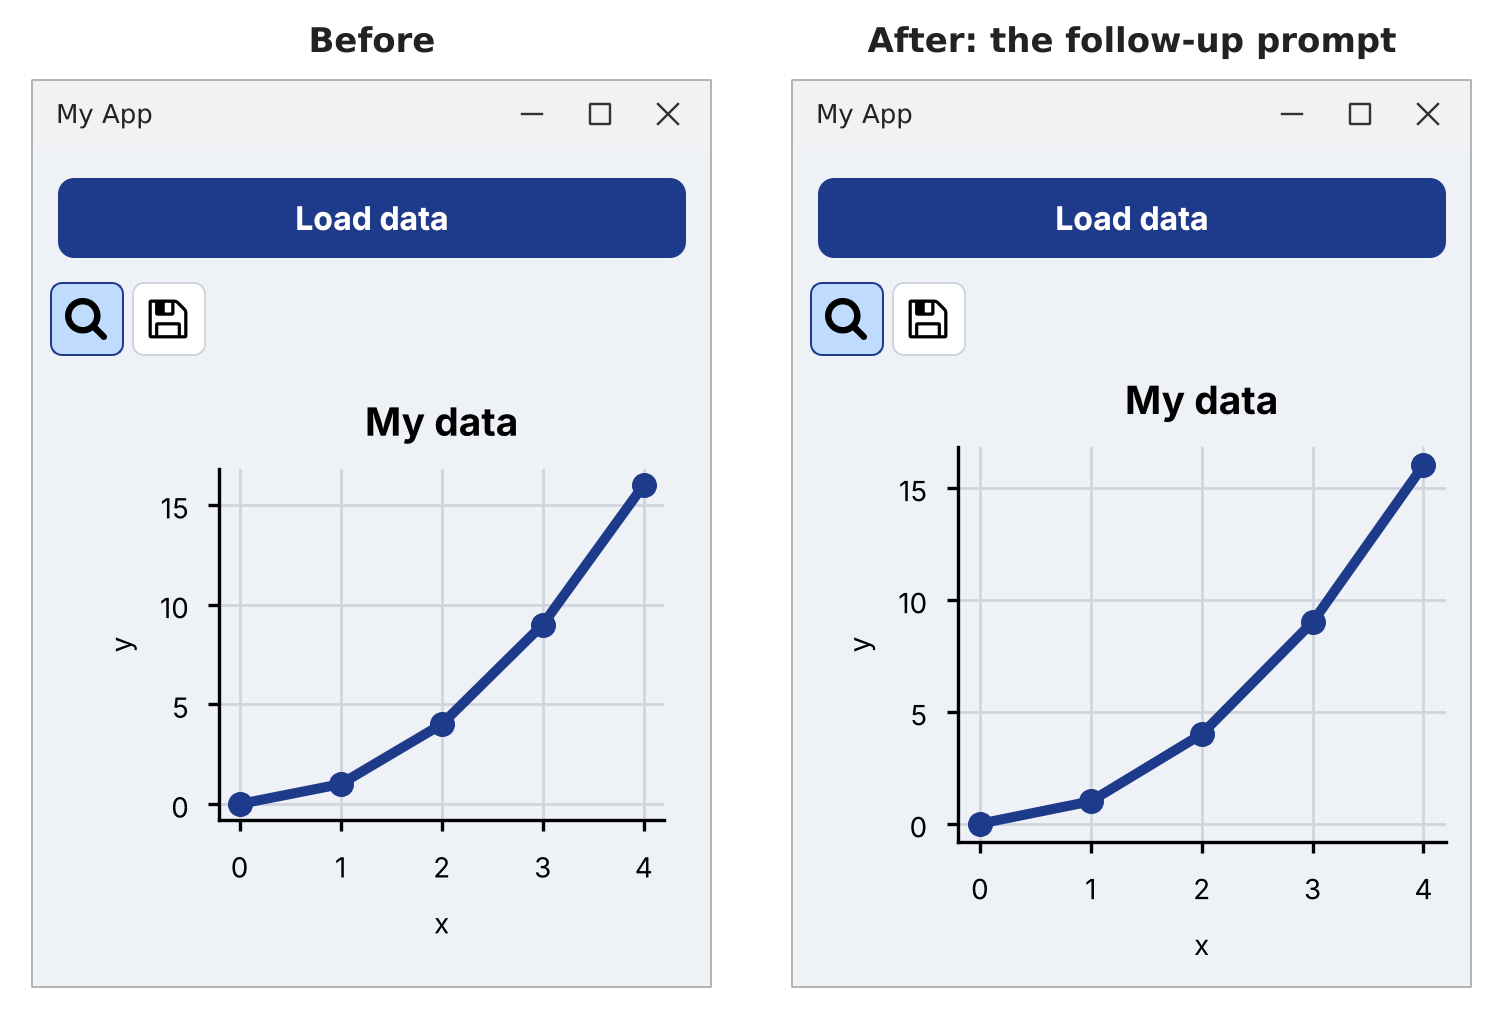
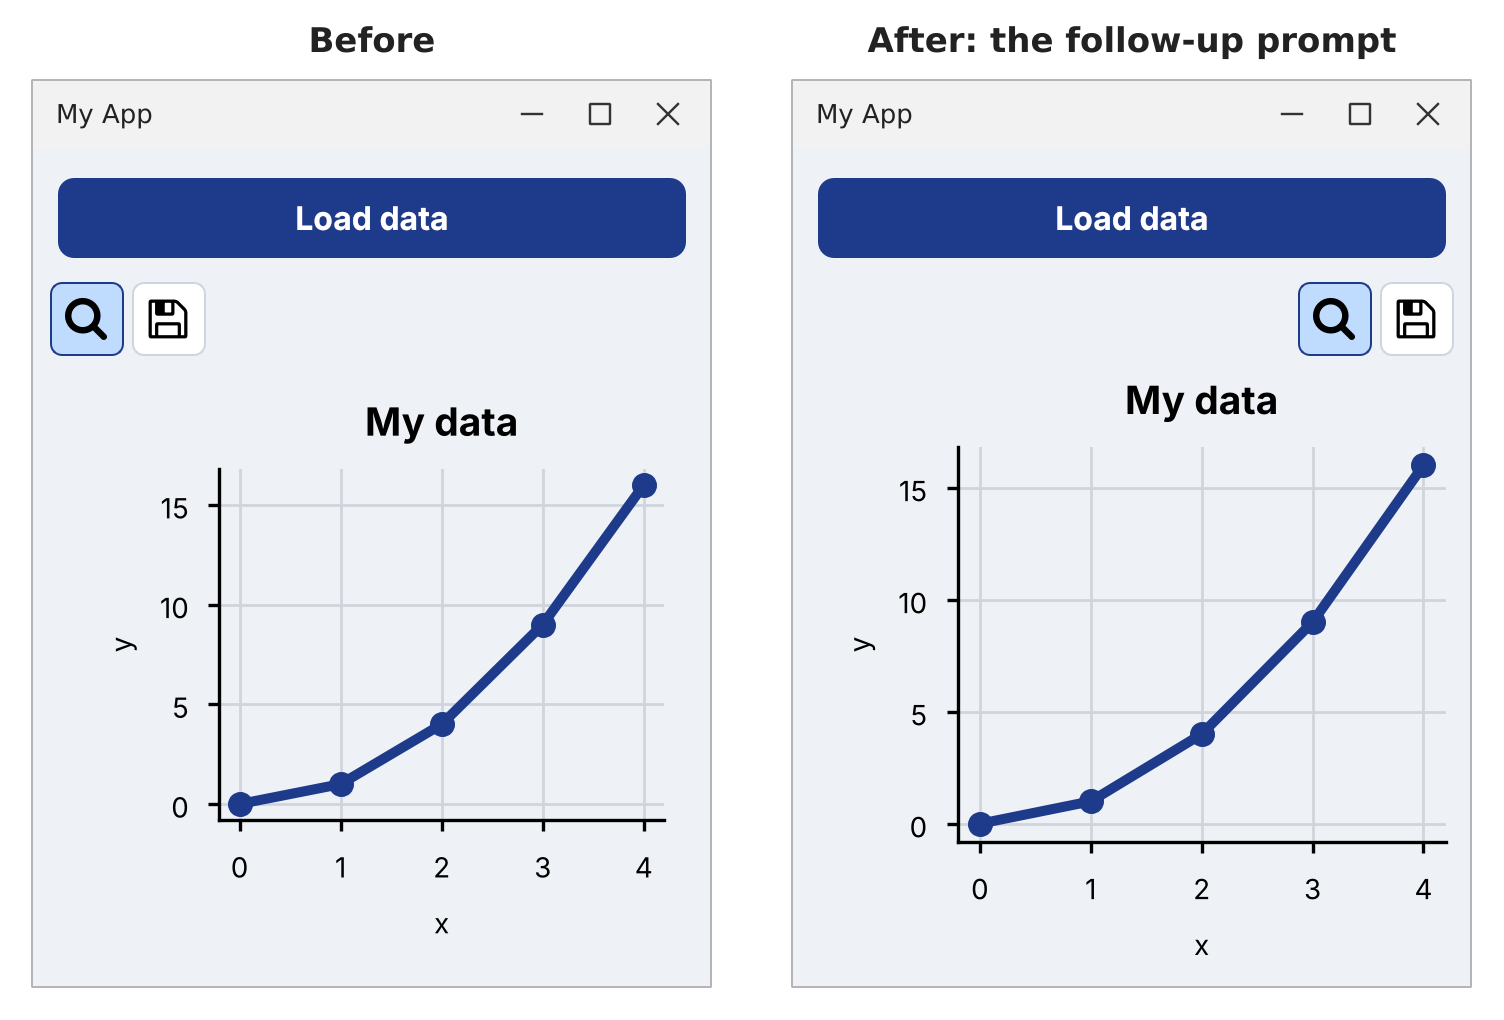
Starter GUI prompts: follow-up prompt also moves the zoom and save buttons to the right (EN + HE)
Claude-Session: https://claude.ai/code/session_01TSvAdkHwYUK1dFMohWex9P

Changed region(s): [[0.8438, 0.2735, 0.9688, 0.3647], [0.5312, 0.2735, 0.6562, 0.3647]]

diff --git a/content/he/topics/good_prompts.md b/content/he/topics/good_prompts.md
@@ -292,18 +292,26 @@ class GraphToolbar(NavigationToolbar2QT):
 
 ### פרומפט המשך: לתקן את מה שלא מוצא חן
 
-הסתכלו על התוצאה בעין ביקורתית. אחרי שהוספנו את סרגל הכלים, יש לגרף יותר מדי מקום ריק משמאל ומעליו. לא צריך להתחיל מההתחלה, ולא צריך לדעת את המילים הנכונות. פשוט תגידו מה מפריע לכם:
+הסתכלו על התוצאה בעין ביקורתית. אחרי שהוספנו את סרגל הכלים, יש לגרף יותר מדי מקום ריק משמאל ומעליו, והכפתורים ייראו טוב יותר בצד ימין. לא צריך להתחיל מההתחלה, ולא צריך לדעת את המילים הנכונות. פשוט תגידו מה מפריע לכם:
 
-> There is too much empty space between the graph and the left side of the window, and a bit too much above the title. Make the graph fill more of its area. Only change `draw_graph`.
+> There is too much empty space between the graph and the left side of the window, and a bit too much above the title. Make the graph fill more of its area. Also, move the zoom and save buttons to the right side, aligned to the right.
 
-(״יש יותר מדי מקום ריק בין הגרף לצד השמאלי של החלון, וקצת יותר מדי מעל הכותרת. תגרום לגרף למלא יותר מהשטח שלו. תשנה רק את `draw_graph`.״)
+(״יש יותר מדי מקום ריק בין הגרף לצד השמאלי של החלון, וקצת יותר מדי מעל הכותרת. תגרום לגרף למלא יותר מהשטח שלו. בנוסף, תעביר את כפתורי הזום והשמירה לצד הימני, מיושרים לימין.״)
 
 ![האפליקציה לפני פרומפט ההמשך, ואחריו](content/images/prompt_fix_before_after_he.png)
 
-ה-AI הוסיף שורה אחת:
+ה-AI הוסיף שורה אחת ל-`draw_graph`, ושינה את השורה ב-`__init__` שמכניסה את סרגל הכלים ל-layout:
 
 ```python
         self.figure.tight_layout(pad=0.3)    # in draw_graph, just before self.canvas.draw()
+```
+
+```python
+from PySide6.QtCore import Qt
+```
+
+```python
+        layout.addWidget(self.toolbar, alignment=Qt.AlignRight)    # in __init__, instead of layout.addWidget(self.toolbar)
 ```
 
 `pad` הוא המרווח מסביב לגרף. נסו בעצמכם ערכים אחרים וראו מה נראה לכם הכי טוב.

diff --git a/content/topics/good_prompts.md b/content/topics/good_prompts.md
@@ -266,16 +266,24 @@ matplotlib's toolbar has more buttons: Home (back to the full view), Back, Forwa
 
 ### A follow-up prompt: fix what you don't like
 
-Look at the result with a critical eye. After the toolbar was added, the graph has too much empty space on its left and above it. You don't have to start over, and you don't need the right words. Just say what bothers you:
+Look at the result with a critical eye. After the toolbar was added, the graph has too much empty space on its left and above it, and the buttons would look better on the right. You don't have to start over, and you don't need the right words. Just say what bothers you:
 
-> There is too much empty space between the graph and the left side of the window, and a bit too much above the title. Make the graph fill more of its area. Only change `draw_graph`.
+> There is too much empty space between the graph and the left side of the window, and a bit too much above the title. Make the graph fill more of its area. Also, move the zoom and save buttons to the right side, aligned to the right.
 
 ![The app before the follow-up prompt, and after it](content/images/prompt_fix_before_after.png)
 
-The AI added one line:
+The AI added one line to `draw_graph`, and changed the line in `__init__` that puts the toolbar in the layout:
 
 ```python
         self.figure.tight_layout(pad=0.3)    # in draw_graph, just before self.canvas.draw()
+```
+
+```python
+from PySide6.QtCore import Qt
+```
+
+```python
+        layout.addWidget(self.toolbar, alignment=Qt.AlignRight)    # in __init__, instead of layout.addWidget(self.toolbar)
 ```
 
 `pad` is the space around the graph. Try other values yourself and see what looks best to you.
